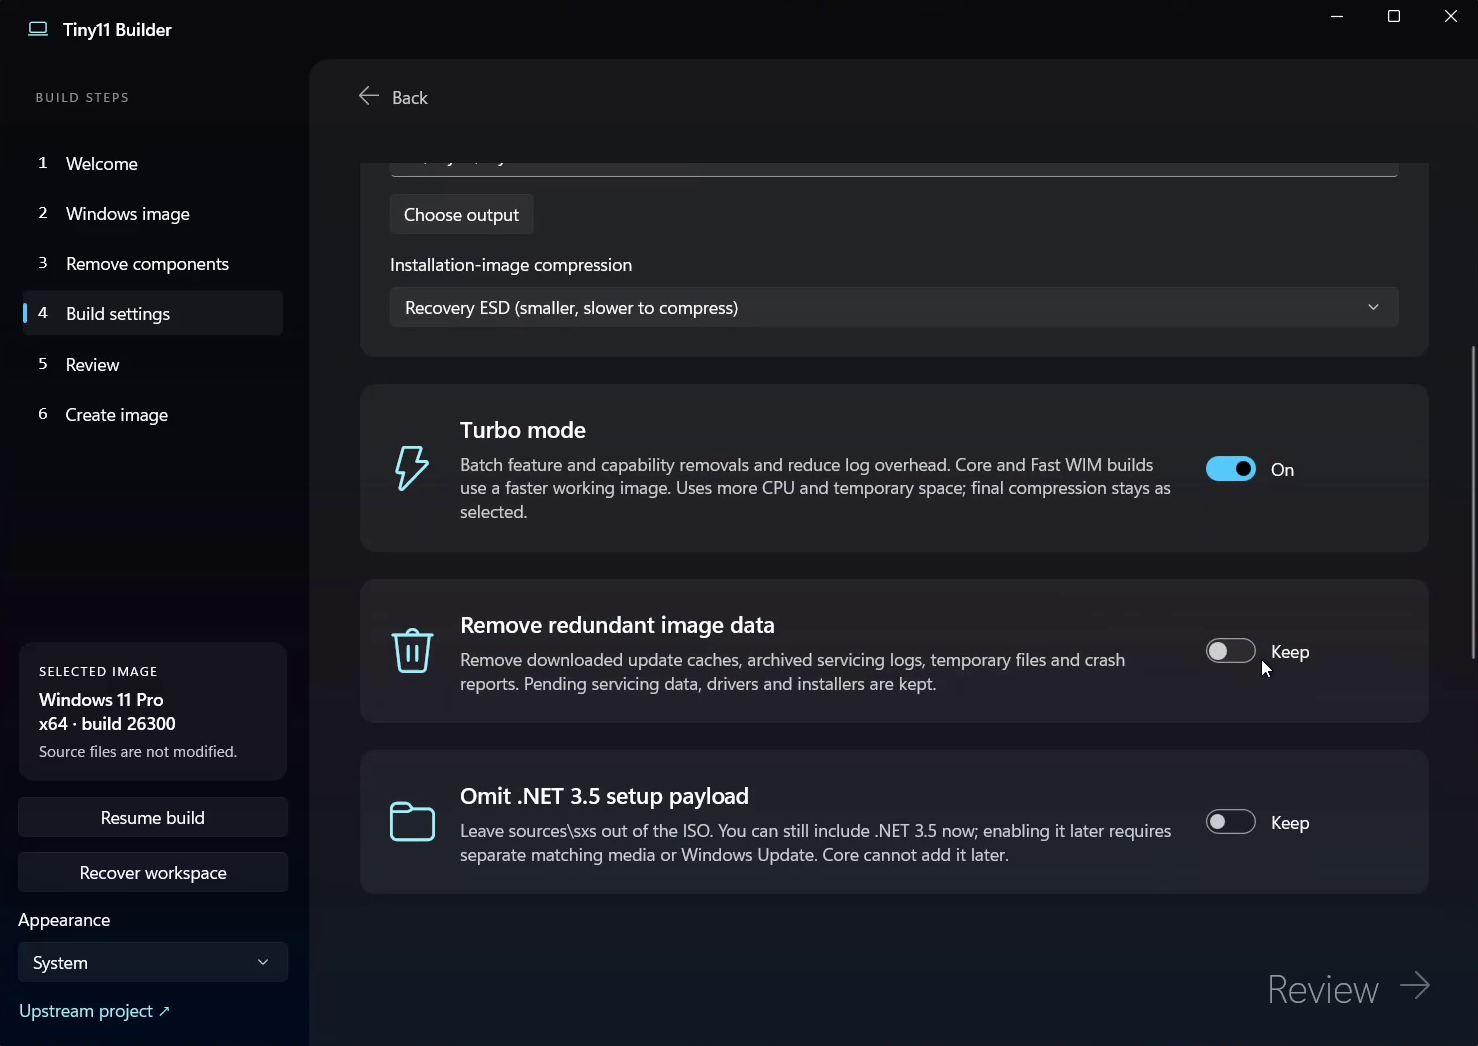
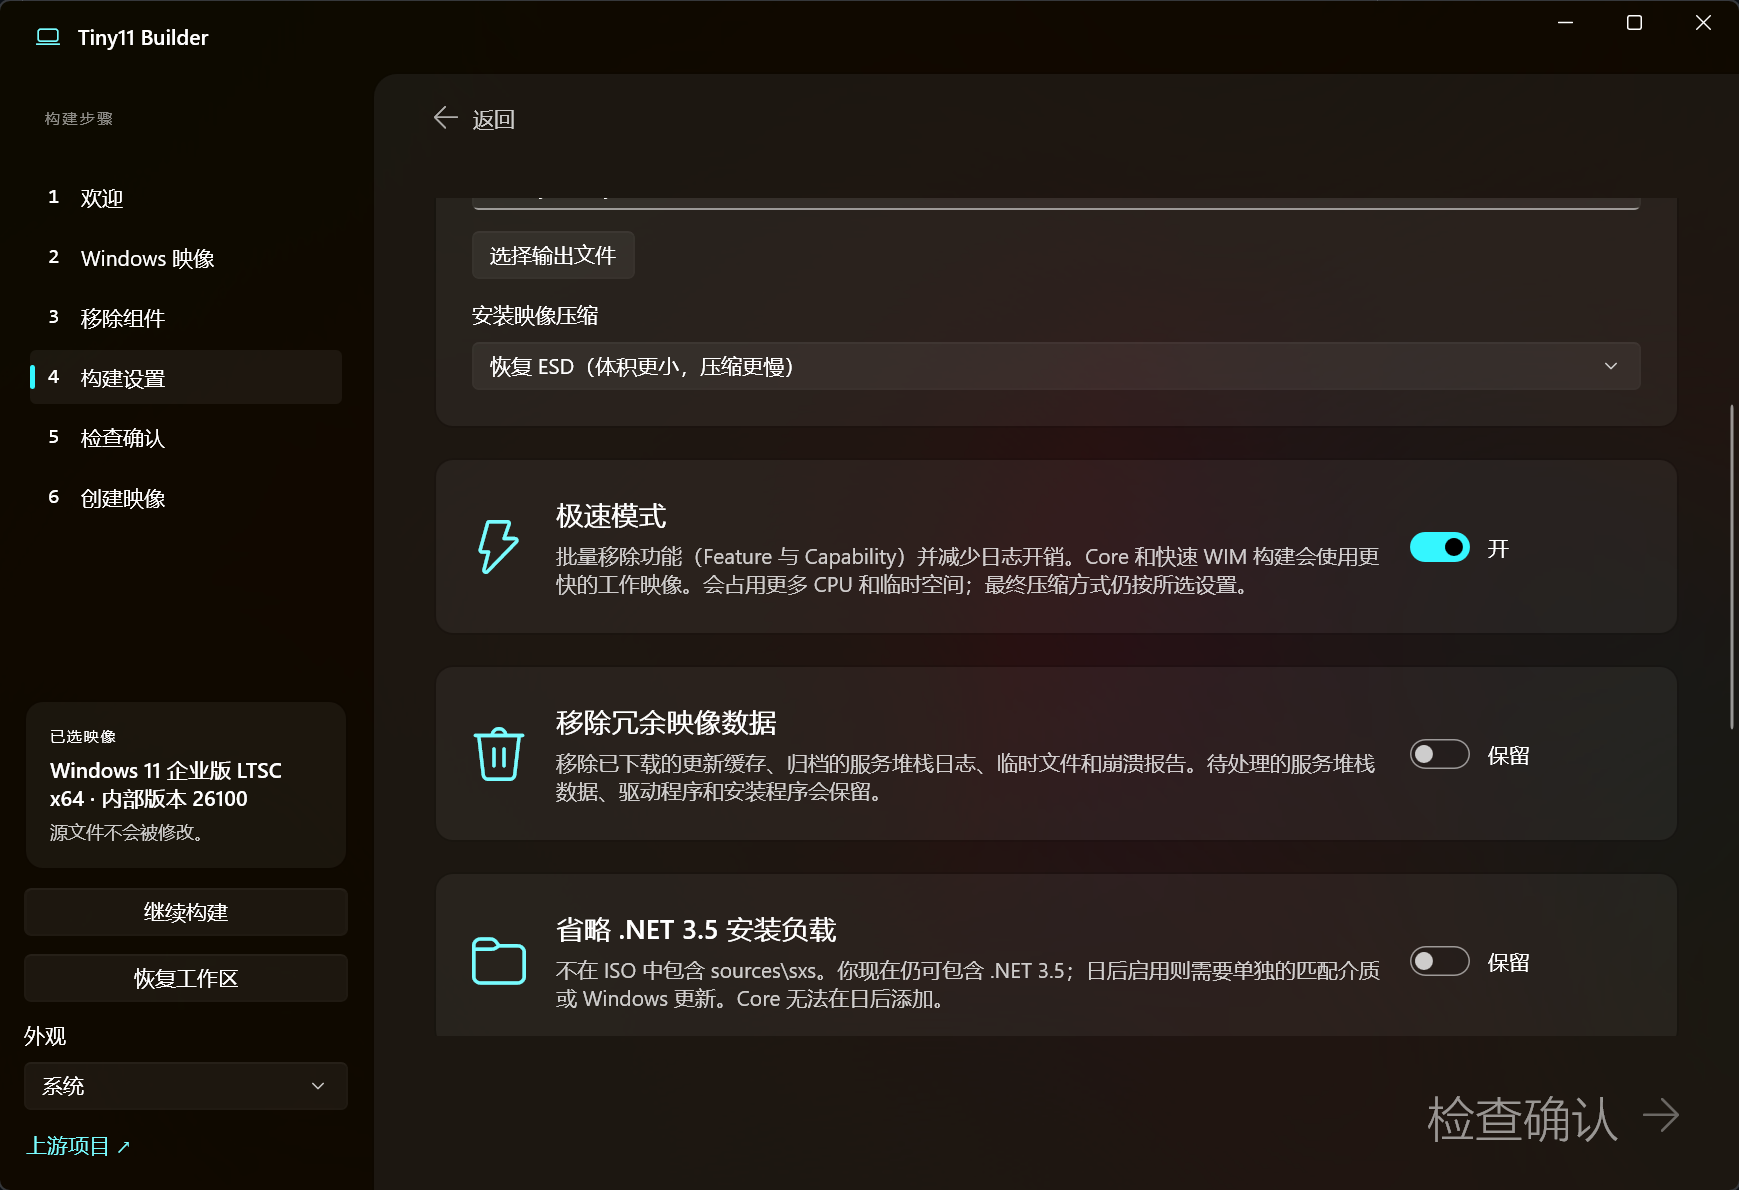
更新界面截图并声明 AI 翻译来源
- docs/images 三张截图替换为当前版本界面：欢迎页、组件选择、构建设置
- README 开头加入 AI 翻译声明（DeepSeek-V4.1-Flash + DeepSeek Harness）
- 下载链接改指本仓库发行版，补充单文件版说明

diff --git a/README.md b/README.md
@@ -1,5 +1,10 @@
 # Tiny11 Builder（中文版）
 
+> [!IMPORTANT]
+> **AI 翻译声明**：本简体中文汉化版的界面文案、提示信息、错误信息与文档，由
+> **DeepSeek-V4.1-Flash** 模型配合 **DeepSeek Harness** 完成 AI 翻译。
+> 译文可能存在偏差或遗漏，欢迎通过 Issue 指正。
+
 用原生 WinUI 应用制作更精简的 Windows 11 ISO。下载微软官方 Windows 映像，
 或使用你自己的映像，选择要移除的内容，然后生成 ISO。
 
@@ -8,10 +13,18 @@
 
 ## 下载
 
-[**获取最新版本**](https://github.com/ntdevlabs/tiny11builder/releases/latest)
+[**获取最新版本**](https://github.com/monkeycathyd/tiny11builder-winui-preview-zh/releases/latest)
 
-Intel / AMD 电脑请选择 **x64**，Windows on ARM 设备请选择 **ARM64**。
-解压整个 ZIP 后打开 `Tiny11Builder.exe`。运行时需要管理员授权。
+发行版提供两种形式：
+
+| 文件 | 说明 |
+| --- | --- |
+| `Tiny11Builder-*-win-x64.exe` | **单文件版**：下载后直接运行，无需解压。 |
+| `Tiny11Builder-*-win-x64.zip` | **压缩包版**：解压整个 ZIP 后打开 `Tiny11Builder.exe`。 |
+
+每个版本都会附带 `.sha256` 校验文件。Intel / AMD 电脑请选择 **x64**；
+Windows on ARM 的 ARM64 版本由 CI 构建，可在 Actions 产物中下载。
+运行时需要管理员授权。
 
 ## 选择构建模式
 
